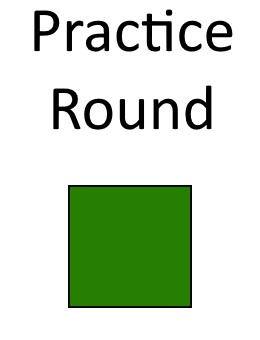
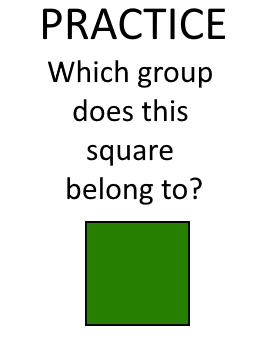
Improved descriptive text and practice round

Changed region(s): [[0.1231, 0.0, 0.8923, 0.3824], [0.2462, 0.5, 0.8, 0.9706], [0.3385, 0.4118, 0.6769, 0.5]]

diff --git a/index.html b/index.html
@@ -9,22 +9,22 @@
     <img class="arrowleft" src="images/Intro Images/LeafLeft.jpeg" width="200"></a>
 	<img class="arrowright" src="images/Intro Images/LeafRight.jpg" width="200"></a>
     
-    <a href="consent.html"><h1><center>The Leaf Game!</center></h1></a>
-	<a href="consent.html"><h1><center>Play a game for science!</center></h1></a>
+    <a href="consent.html"><h1><center>The Leaf Game</center></h1></a>
+	<a href="consent.html"><h1><center>Play a game for science</center></h1></a>
     
     <p>
 	<p>
 	<center>	
-		We are studying parasitic plants called Mistletoe.
+		We are studying parasitic plants called mistletoe.
     <p> 
-		Mistletoe attach to a host plant and extract water and nutrients from the host in order to survive!
+		Mistletoe attach to a host plant and then extract water and nutrients from the host plant to survive!
 		
 	<p>
-		Australia has many species of mistletoe. What is unusual is the number of mistletoe that appear to look like their host. We are investigating why this might be.
+		Many species of mistletoe can be found in Australia and a number of these species appear to look like their host. This resemblance is unusual and is the subject of our research.
 	<p>	
-		In this game you play as a hungry possum that sees a leaf and must decide which group of leaves it belongs to.
+		In this game you will be shown leaf silhouettes and then be asked to group a specific leaf with other leaves that you think look most like it.
 	<p>
-		The data provided by everybody who plays this game will then be used to assess how Mistletoe's visual similarity to it's host plant relates to the presence of defensive chemicals.
+		The data provided by everybody who plays this game will then be used to assess how the visual similarity between different mistletoe species and their hosts relates to the presence of defensive chemicals.
  
       
     <!-- <p class="important">You will be shown pairs of leaves, click the <span class="label">Same</span> button or press the <span class="label">S</span>-key if you think the two leaves shown are from the same plant species or click the <span class="label">Different</span> button or press the <span class="label">D</span>-key if you think the two leaves shown are from different species.

diff --git a/start.html b/start.html
@@ -4,17 +4,28 @@
     <link href="trial.css" rel="stylesheet">
 </head>
   <body id="start">
-
+ 
+    <img class="arrowleft" src="images/Intro Images/LeafLeft.jpeg" width="200"></a>
+	<img class="arrowright" src="images/Intro Images/LeafRight.jpg" width="200"></a>
+ 
 	<center>
+	<p>
+	<p>
     <h1>How To Play:</h1>
-    <p>Over 15 rounds, you will be shown a center leaf and two groups of three leaves from two different species.
-	<p>You will then need to decide which of the two groups the center leaf is the same species as.
-	<p>(You won't know which leaves are Mistletoe and which are not)
+	<p>
+	<p>
+    <p>During each round you will be shown 7 leaf silhouettes like the two above:
+	<p> -> Three leaves from one plant species on the left.
+	<p> -> Three leaves from a different plant species on the right.
+	<p> -> One leaf in the centre.
+	<p>
+	<p>You will then need to decide whether the centre leaf is from the same plant species as the leaves on the left or the leaves on the right.
+	(You won't know which leaves are Mistletoe and which are not)
 	
-	<p>You will then have <font color="red">10 seconds</font> to decide which group the center leaf belongs to.
+	<p>This game consists of 15 rounds and you will have <font color="red">10 seconds</font> to make your decision during each round.
 	
-	<p> To make your decision, press the "Left Group" or "Right Group" buttons presented
-	<p> You can also use your keyboard by pressing the Left and Right Keys on your keyboard 
+	<p> To make your decision, press the "Left Group" or "Right Group" buttons presented.
+	<p> You can also use your keyboard by pressing the Left and Right Keys on your keyboard.
 	
 	<p>
 	<!--<p>It is easy to tell that the leaves in the example above are from different plant species, but it won't always be so easy!-->
@@ -27,8 +38,8 @@
 	<p>
 	<!--<p>Once your ready, press one of the buttons below to begin-->
 	  
-      <a class="button" href="trial.html?noob=T">This is my first time</a>
-      <a class="button" href="trial.html?noob=F">I have played before</a>
+      <a class="button" href="trial.html?first=T">This is my first time</a>
+      <a class="button" href="trial.html?first=F">I have played before</a>
 	  
 	</center>
 

diff --git a/consent.html b/consent.html
@@ -23,11 +23,11 @@ Phone: 02 9850 8897 - Email: matthew.bulbert@mq.edu.au</div>
   
   <p>
     <span class="prj">Name of Project:</span>
-    Misletoe Mimicry
+    Mistletoe Mimicry
 
   <p>
 If you decide to participate, you will be asked to view standardised images of leaves and
-tell us if you think the center leaf belongs to the same species as the leaves on the left or the right side. You will be asked to score a total of 15
+tell us if you think the centre leaf belongs to the same species as the leaves on the left or the right side. You will be asked to score a total of 15
 images, and the task will take less than 3 minutes. From your responses we will obtain
 the frequency with which each pair of leaves are considered to be from the same or different species as well as the time it took
 each participant to score each image.

diff --git a/trial.js b/trial.js
@@ -81,6 +81,7 @@ function LoadPhoto(url) {
     img.src = url;
 }
 
+
 function LoadPhoto3(url) { //NEW FUNCTION SAME AS LoadPhoto BUT FOR A DIFF LEAF
     var img3 = new Image;
     img3.onload = function () {
@@ -335,7 +336,7 @@ function StartTrial(dryRun) {
     // Get the data logger
     logger = GetLogger(dryRun);
     // Is this the user's first attempt?
-    const noob = new URLSearchParams(window.location.search).get('noob');
+    const noob = new URLSearchParams(window.location.search).get('first');
     logger.logUserSession(noob == "T", window.screen.width, window.screen.height, window.devicePixelRatio, navigator.userAgent);
     
     // Setup the photos to be displayed, and show the first one

diff --git a/trial.css b/trial.css
@@ -64,6 +64,7 @@ a.button:hover{
 /* -------------- Front (and other) page --------------- #e7fbeb*/
 body#index, body#start, body#finish {background: black; color: lightgrey; font-size:120% }
 body#index { max-width: 53em; margin: auto }
+body#start { max-width: 53em; margin: auto }
 a.play { display:inline-block; font-size: 150%; clear:left; padding: .5em; }
 /* a.consent { display:none; clear:left; padding: .8em; } dont think i need this because i removed the button */
 a.play, a.consent { color: white /*#e7fbeb*/ }

diff --git a/photo-list.js b/photo-list.js
@@ -156,7 +156,7 @@ G23 = alternateArrays(G23M,G23H)
 G24 = alternateArrays(G24M,G24H)
 G25 = alternateArrays(G25M,G25H)
 
-photoTimeout = 20000;
+photoTimeout = 100000;
 // Number of photos to show in a sinle trial
 numPhotos = 11;
 // List of candidate photos. Each photo has a URL, a weight

diff --git a/finish.html b/finish.html
@@ -45,7 +45,7 @@
   </head>
   <body id="finish">
 	<center>
-    <h1>The Mistletoe Game</h1>
+    <h1>The Leaf Game</h1>
 
     <p>
       Thanks for participating!
